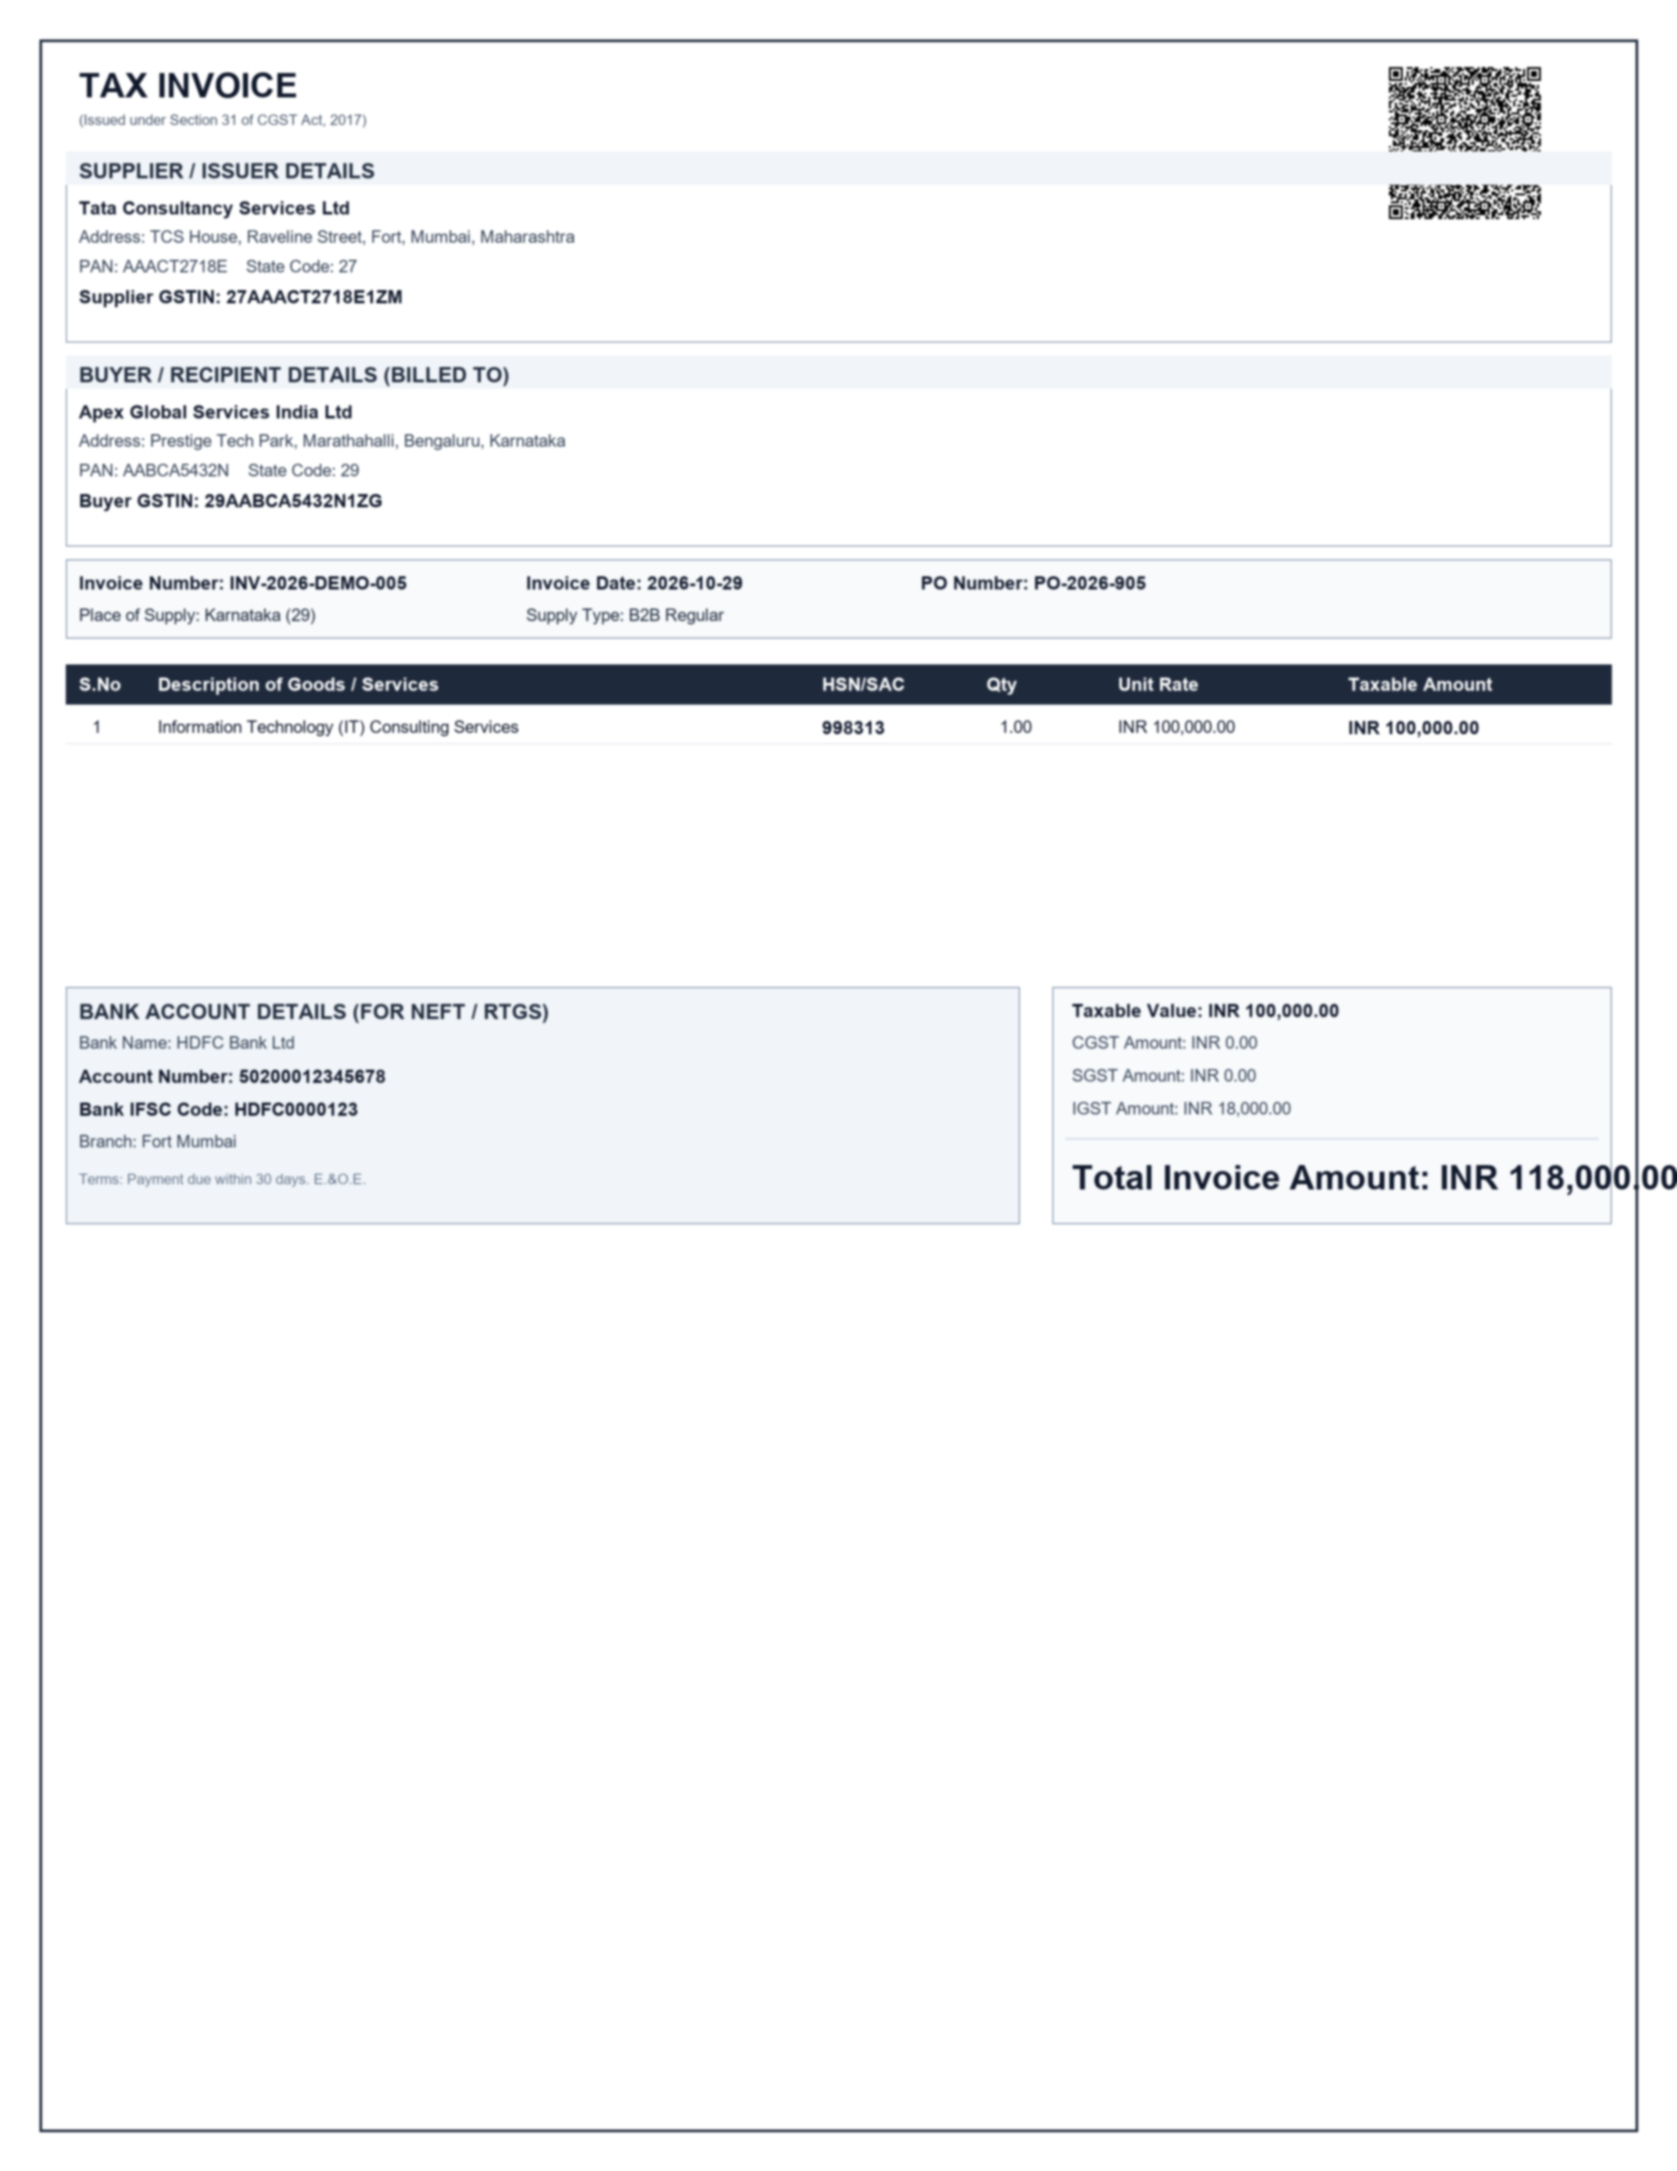
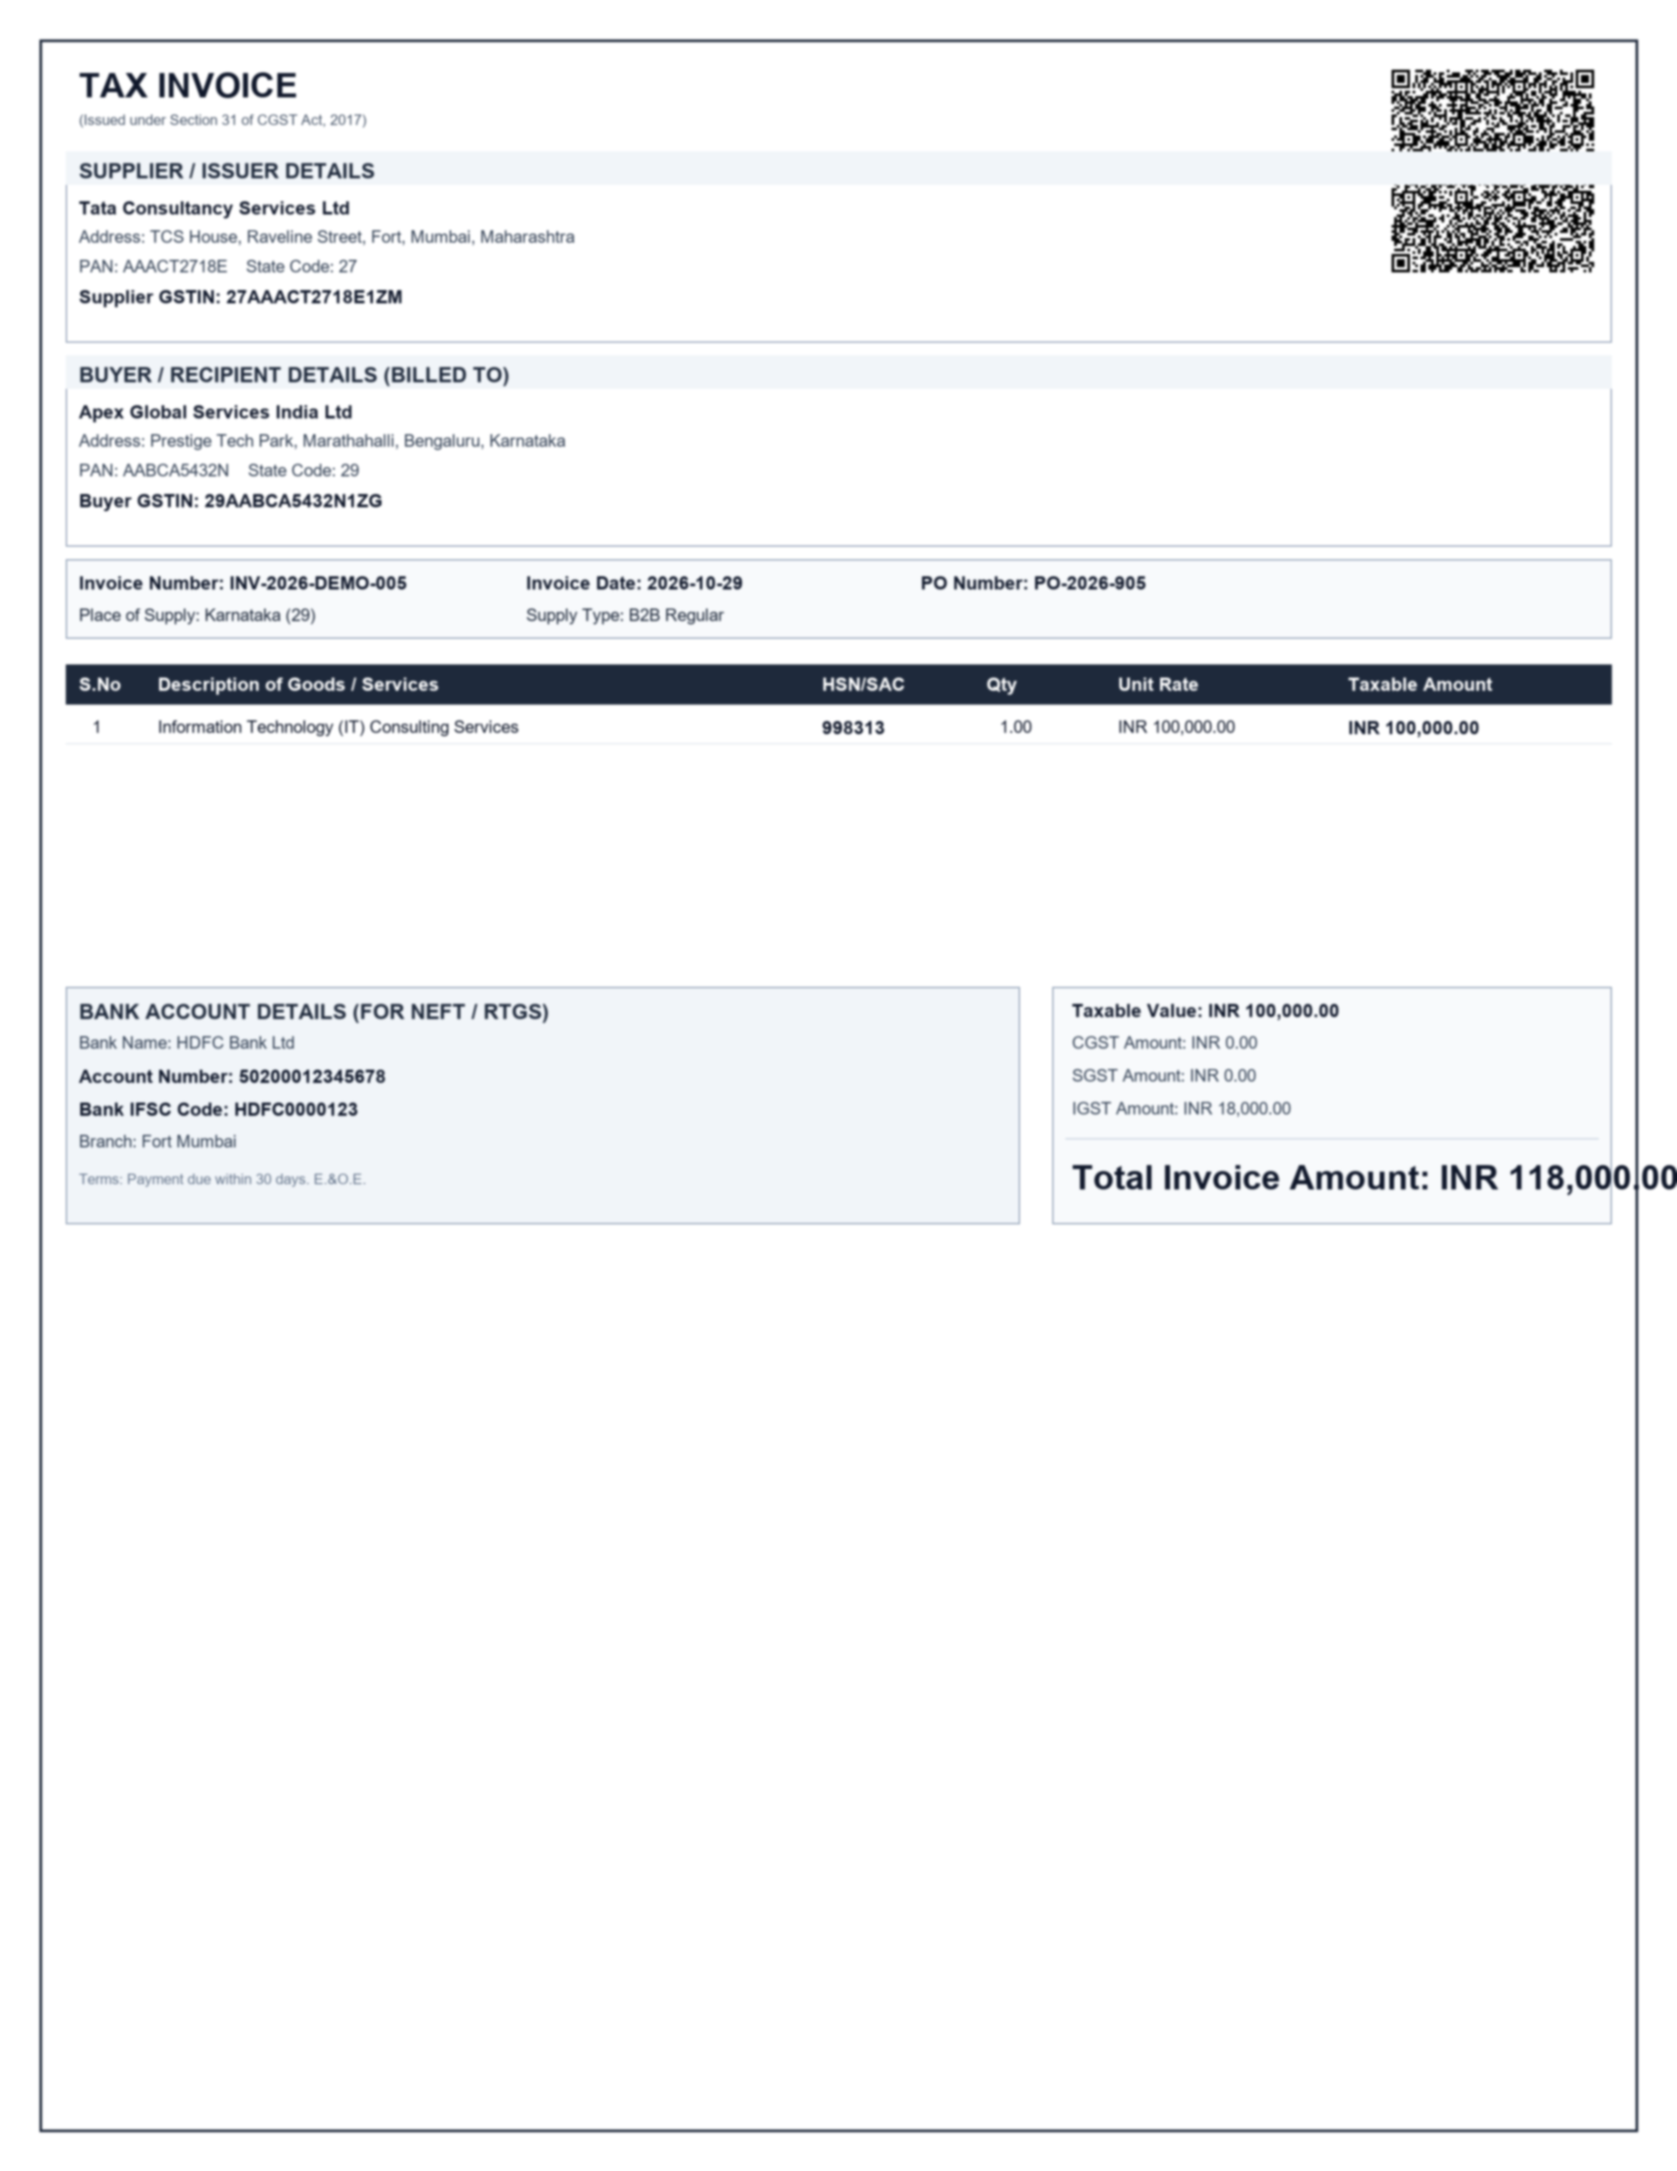
fix(idp): resolve GSTIN validation discrepancies, compute dynamic badges, and correct Indra language scope

Changed region(s): [[0.8055, 0.0312, 0.9604, 0.1248]]

diff --git a/apps/web/src/modules/idp/ValidationWorkbenchView.tsx b/apps/web/src/modules/idp/ValidationWorkbenchView.tsx
@@ -431,7 +431,7 @@ export const ValidationWorkbenchView: React.FC<ValidationWorkbenchViewProps> = (
               </span>
             </div>
             <p className="text-[11px] text-surface-500">
-              Mean OCR Confidence: {job?.mean_confidence ?? 96.4}% • Base-36 Checksum Verified • PEP Policy PDP Active
+              Mean OCR Confidence: {job?.mean_confidence ?? 96.4}% • {supplierGstinCheck.isValid && buyerGstinCheck.isValid ? "Base-36 Checksum Verified" : "Checksum Review Required"} • PEP Policy PDP Active
             </p>
           </div>
         </div>
@@ -781,9 +781,6 @@ export const ValidationWorkbenchView: React.FC<ValidationWorkbenchViewProps> = (
                     <span className="px-1.5 py-0.5 bg-surface-200 dark:bg-surface-800 text-[10px] rounded text-surface-600">
                       {supplierGstinCheck.state}
                     </span>
-                    <span className="px-1.5 py-0.5 bg-emerald-100 text-emerald-800 text-[10px] font-mono rounded">
-                      IoU: 0.99 (≥0.7)
-                    </span>
                   </div>
                 </div>
                 <input
@@ -813,9 +810,6 @@ export const ValidationWorkbenchView: React.FC<ValidationWorkbenchViewProps> = (
                     )}
                     <span className="px-1.5 py-0.5 bg-surface-200 dark:bg-surface-800 text-[10px] rounded text-surface-600">
                       {buyerGstinCheck.state}
-                    </span>
-                    <span className="px-1.5 py-0.5 bg-emerald-100 text-emerald-800 text-[10px] font-mono rounded">
-                      IoU: 0.99 (≥0.7)
                     </span>
                   </div>
                 </div>

diff --git a/cli/elixir_admin/main.py b/cli/elixir_admin/main.py
@@ -360,9 +360,11 @@ def seed_idp_demo_cmd(
                 job_id = data.get("job_id", "—")
                 st = data.get("status", "completed")
                 dtype = data.get("document_type", "invoice")
-                fields = data.get("extracted_fields", {})
-                gstin = fields.get("supplier_gstin", {}).get("value", "—") if isinstance(fields.get("supplier_gstin"), dict) else "—"
-                is_valid_cs = "VALID" if "27AAPFU0939F1ZX" not in gstin else "[bold red]FAIL (Corrupt)[/bold red]"
+                fields = data.get("fields", {})
+                gstin = str(fields.get("supplier_gstin", {}).get("normalized_value", "—") if isinstance(fields.get("supplier_gstin"), dict) else "—")
+                from apps.api.app.content.idp.gstin import validate_gstin
+                is_valid, err = validate_gstin(gstin)
+                is_valid_cs = "[bold green]VALID[/bold green]" if is_valid else f"[bold red]INVALID ({err})[/bold red]"
                 table.add_row(fname, job_id, st, dtype, gstin, is_valid_cs, f"{dur:.2f}s")
             else:
                 table.add_row(fname, "—", f"[red]HTTP {res.status_code}[/red]", "—", "—", "—", f"{dur:.2f}s")

diff --git a/apps/api/app/content/idp/engine.py b/apps/api/app/content/idp/engine.py
@@ -525,7 +525,8 @@ class PyMuPdfEngine(OcrEngine):
 class IndraEngine(OcrEngine):
     """
     Indra OCR Engine (Open-Source Neural Layout Parser & Transformer).
-    Superior for multilingual, Indic/Devanagari script, and complex table layouts.
+    Fast ONNX transformer OCR supporting Latin, Cyrillic, Greek, Devanagari, Bengali, and Chinese for clean print.
+    Note: Does NOT support Tamil, Telugu, Kannada, or Malayalam.
     Gracefully falls back to Tesseract on error or timeout.
     """
 

diff --git a/scripts/generate_demo_samples.py b/scripts/generate_demo_samples.py
@@ -129,9 +129,8 @@ def render_invoice_image(
         ).decode("utf-8").rstrip("=") + ".offline_signature"
 
         qr = qrcode.QRCode(
-            version=5,
             error_correction=qrcode.constants.ERROR_CORRECT_M,
-            box_size=3,
+            box_size=4,
             border=4,
         )
         qr.add_data(encoded_jwt)

diff --git a/README.md b/README.md
@@ -70,7 +70,7 @@ flowchart TD
 
 ### 1. 📑 Capture & Intelligent Document Processing (IDP)
 *An OpenText VIM-style document capture and mathematical reconciliation engine.*
-- **Adaptive Multi-Engine OCR**: Orchestrates **Tesseract 5.4**, **Indra OCR** (optimized for Indian vernacular scripts: Hindi, Tamil, Telugu, Kannada, Malayalam, Bengali, Marathi, Gujarati, Punjabi), and PyMuPDF.
+- **Adaptive Multi-Engine OCR**: Orchestrates **Tesseract 5.4** (with multi-language packs), **Indra OCR** (fast on clean print; supports Latin, Cyrillic, Greek, Devanagari, Bengali and Chinese; does not support Tamil, Telugu, Kannada, or Malayalam), and **PyMuPDF**.
 - **Indian GST Invoice Extraction**: Automated extraction of Supplier/Buyer GSTINs, Taxable Value, CGST, SGST, IGST, HSN line items, and bank details.
 - **Mod-36 Checksum Repair**: Position-aware OCR error correction that repairs confused characters (`O` vs `0`, `I` vs `1`, `S` vs `5`, `B` vs `8`, `Z` vs `2`) to match official GSTIN checksum algorithms.
 - **Rule 46 e-Invoice QR Validation**: Offline decoding and cross-validation of signed e-invoice JWT QR codes using `zxingcpp`.
@@ -231,3 +231,4 @@ Elixir-EIM/
 ## 📄 License & Compliance
 
 Distributed under the Apache 2.0 License. Designed to satisfy compliance criteria for **SOC 2 Type II**, **ISO 27001**, **HIPAA**, and **GDPR** records disposition requirements.
+
